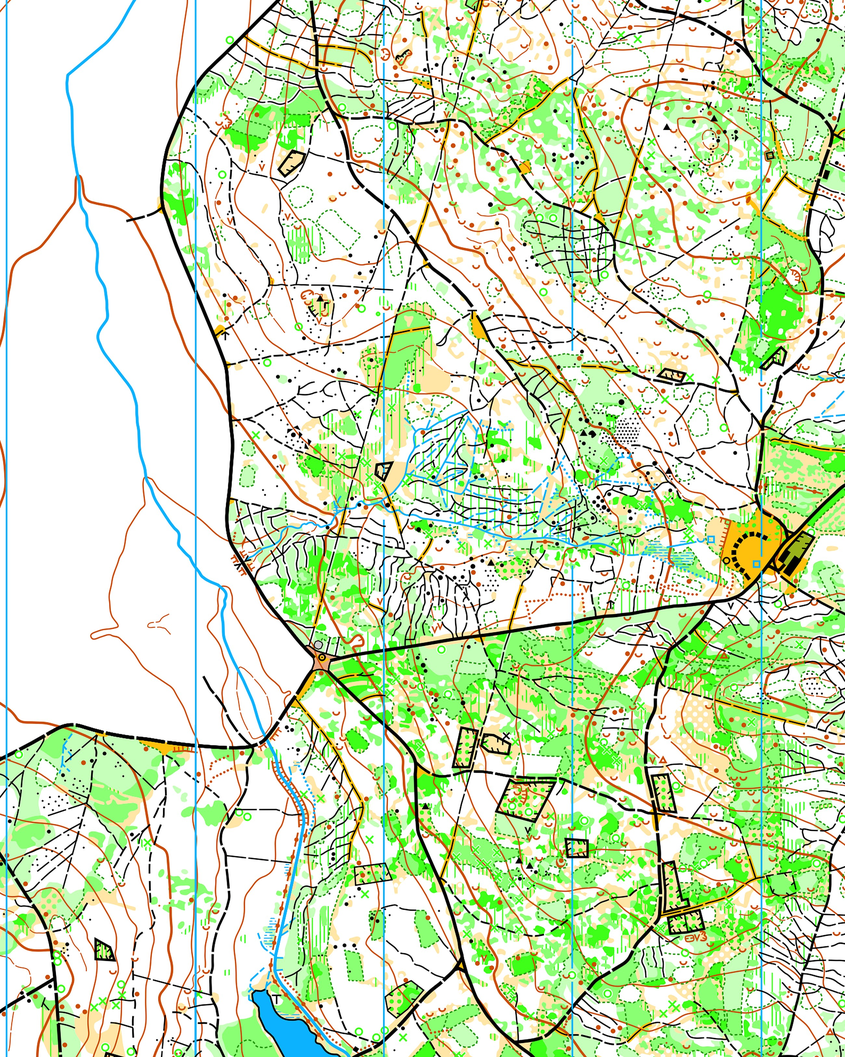
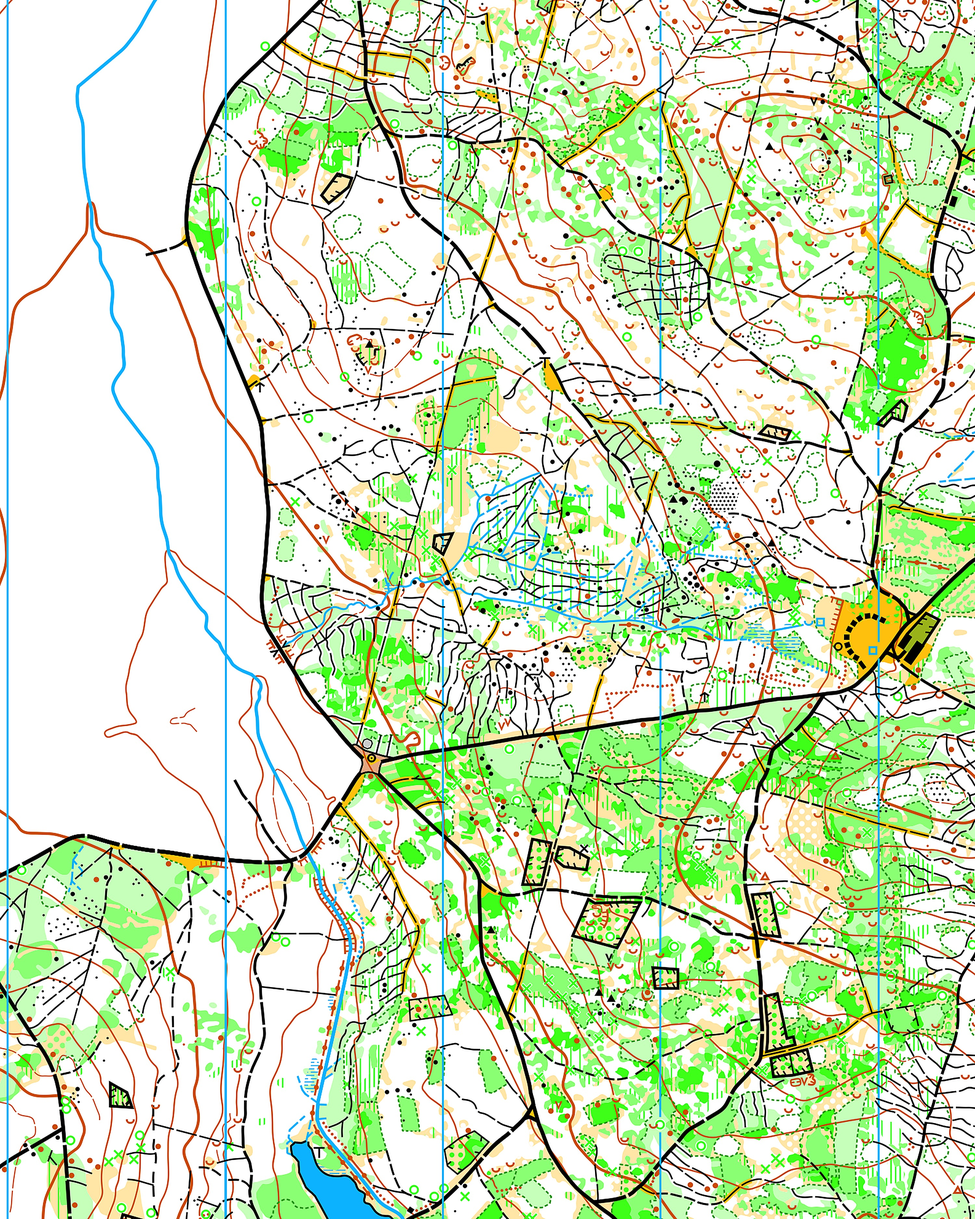
feat: increase map zoom to 700% and enhance thumbnail sharpness

diff --git a/export/app.js b/export/app.js
@@ -2777,7 +2777,8 @@ function renderExploreGrid() {
             driftVars += ` --drift-start-x: ${b.startX}%; --drift-start-y: ${b.startY}%; --drift-mid-x: ${b.midX}%; --drift-mid-y: ${b.midY}%; --drift-end-x: ${b.endX}%; --drift-end-y: ${b.endY}%;`;
         }
         
-        const driftStyle = `style="position: absolute; top: 0; left: 0; width: 500%; height: 500%; ${driftVars}"`;
+        const zoom = (b && b.zoom) ? b.zoom : 700;
+        const driftStyle = `style="position: absolute; top: 0; left: 0; width: ${zoom}%; height: ${zoom}%; ${driftVars}"`;
         
         el.innerHTML = `
             <div class="animated-map-drift" ${driftStyle}>

diff --git a/export/style.css b/export/style.css
@@ -334,8 +334,11 @@ html, body {
 .animated-map-drift img {
   image-rendering: auto;
   image-rendering: -webkit-optimize-contrast;
+  image-rendering: crisp-edges;
+  filter: contrast(1.05) saturate(1.06);
   -webkit-backface-visibility: hidden;
   backface-visibility: hidden;
+  transform: translateZ(0);
 }
 
 @keyframes mapDrift {

diff --git a/14_export_thumbnails.py b/14_export_thumbnails.py
@@ -31,11 +31,13 @@ Image.MAX_IMAGE_PIXELS = None
 
 # Cílový poměr stran 4:5 (šířka:výška, IG portrait)
 TARGET_ASPECT = 4 / 5
-# Velikost výstupního thumbnailu (zvýšena na 2600 pro křišťálovou ostrost i při 500% zoomu na Retina displejích)
-THUMB_WIDTH = 2600
-THUMB_HEIGHT = int(THUMB_WIDTH / TARGET_ASPECT)  # = 3250
-# JPEG kvalita (90 pro vysokou ostrost detailů mapy)
-JPEG_QUALITY = 90
+# Velikost výstupního thumbnailu (zvýšena na 3000 pro maximální ostrost i při vysokém zoomu na Retina displejích)
+THUMB_WIDTH = 3000
+THUMB_HEIGHT = int(THUMB_WIDTH / TARGET_ASPECT)  # = 3750
+# JPEG kvalita (93 pro precizní ostrost linií bez artefaktů)
+JPEG_QUALITY = 93
+# Výchozí zoom kamery na úvodní stránce (700 % = detailní záběr mapy s čitelnými vrstevnicemi a kameny)
+DEFAULT_MAP_ZOOM = 700
 
 # Padding pro vyříznutí mapy kolem postupu (zajišťuje dostatek "masa" pro zoom bez přejetí mimo mapu)
 BBOX_PADDING_RATIO = 0.35  # Velmi těsný ořez pro co největší detail
@@ -119,7 +121,7 @@ def crop_to_aspect(bbox, img_width, img_height, aspect_ratio=TARGET_ASPECT, padd
     return int(max(0, min_col)), int(max(0, min_row)), int(min(img_width, max_col)), int(min(img_height, max_row))
 
 
-def compute_map_drift(cropped_img, norm_route_pts=None):
+def compute_map_drift(cropped_img, norm_route_pts=None, zoom=DEFAULT_MAP_ZOOM):
     """
     Vypočítá optimální trajektorii kamery (startX/Y, midX/Y, endX/Y) pro dlaždici na homepage.
     - Analyzuje bílé / nezmapované okraje mapy a striktně se jim vyhýbá.
@@ -154,9 +156,10 @@ def compute_map_drift(cropped_img, norm_route_pts=None):
     else:
         route_map = detail_map.copy()
         
-    # Velikost zobrazeného výřezu při 500% zoomu (20% šířky i výšky)
-    win_w = 20
-    win_h = 25
+    # Velikost zobrazeného výřezu při zoomu (např. 700% -> viewport je 14.3% šířky i výšky)
+    vp_pct = 100.0 / (zoom / 100.0)
+    win_w = max(4, int(round(W * (vp_pct / 100.0))))
+    win_h = max(4, int(round(H * (vp_pct / 100.0))))
     half_w = win_w // 2
     half_h = win_h // 2
     
@@ -168,11 +171,11 @@ def compute_map_drift(cropped_img, norm_route_pts=None):
             sub_w = is_white[r - half_h : r + half_h + 1, c - half_w : c + half_w + 1]
             w_ratio = np.mean(sub_w)
             white_ratios[r, c] = w_ratio
-            # Striktní podmínka: maximálně 3 % bílého okraje v celém 20%x20% zorném poli
-            if w_ratio <= 0.03:
+            # Striktní podmínka: maximálně 2 % bílého okraje v celém zorném poli
+            if w_ratio <= 0.02:
                 r_val = np.mean(route_map[r - half_h : r + half_h + 1, c - half_w : c + half_w + 1])
                 d_val = np.mean(detail_map[r - half_h : r + half_h + 1, c - half_w : c + half_w + 1])
-                score = (1.0 - w_ratio * 25.0) * (r_val * 3.0 + d_val * 0.5)
+                score = (1.0 - w_ratio * 30.0) * (r_val * 3.0 + d_val * 0.5)
                 scores[r, c] = max(0.001, score)
                 
     if np.max(scores) == 0:
@@ -183,18 +186,18 @@ def compute_map_drift(cropped_img, norm_route_pts=None):
         c2, r2 = c_best, r_best
         cm, rm = c_best, r_best
     else:
-        threshold = np.percentile(scores[scores > 0], 75)
+        threshold = np.percentile(scores[scores > 0], 80)
         top_candidates = np.argwhere(scores >= threshold)
         
-        # Cílová vzdálenost pro jemný, decentní a pomalý drift (~8-10% šířky mapy)
-        target_dist = 10.0
+        # Cílová vzdálenost pro jemný, decentní a pomalý drift (~7-9% šířky mapy)
+        target_dist = 8.5
         best_pair = None
         best_diff = 999.0
         
         for r1_cand, c1_cand in top_candidates[::2]:
             for r2_cand, c2_cand in top_candidates[::2]:
                 d = np.hypot(c2_cand - c1_cand, r2_cand - r1_cand)
-                if 6.0 <= d <= 14.0:
+                if 5.0 <= d <= 12.0:
                     diff = abs(d - target_dist)
                     if diff < best_diff:
                         best_diff = diff
@@ -203,8 +206,8 @@ def compute_map_drift(cropped_img, norm_route_pts=None):
         if best_pair is None:
             max_idx = np.argmax(scores)
             br, bc = np.unravel_index(max_idx, scores.shape)
-            c1, r1 = bc - 4, br - 3
-            c2, r2 = bc + 4, br + 3
+            c1, r1 = bc - 3, br - 3
+            c2, r2 = bc + 3, br + 3
         else:
             (c1, r1), (c2, r2) = best_pair
             
@@ -212,21 +215,24 @@ def compute_map_drift(cropped_img, norm_route_pts=None):
         cm = int(round((c1 + c2) / 2.0 + (r2 - r1) * 0.15))
         rm = int(round((r1 + r2) / 2.0 - (c2 - c1) * 0.15))
         
-        if not (half_h <= rm < H - half_h and half_w <= cm < W - half_w and white_ratios[rm, cm] <= 0.04):
+        if not (half_h <= rm < H - half_h and half_w <= cm < W - half_w and white_ratios[rm, cm] <= 0.03):
             cm = int(round((c1 + c2) / 2.0))
             rm = int(round((r1 + r2) / 2.0))
 
+    half_vp = (vp_pct / 200.0)
+    max_t = -(100.0 - vp_pct)
     def to_css(col, row):
         cx = col / float(W)
         cy = row / float(H)
-        sx = max(-80.0, min(0.0, -(cx - 0.10) * 100.0))
-        sy = max(-80.0, min(0.0, -(cy - 0.10) * 100.0))
+        sx = max(max_t, min(0.0, -(cx - half_vp) * 100.0))
+        sy = max(max_t, min(0.0, -(cy - half_vp) * 100.0))
         return round(float(sx), 1), round(float(sy), 1)
 
     sx, sy = to_css(c1, r1)
     ex, ey = to_css(c2, r2)
     mx, my = to_css(cm, rm)
     return {
+        'zoom': zoom,
         'startX': sx, 'startY': sy,
         'midX': mx, 'midY': my,
         'endX': ex, 'endY': ey
@@ -289,7 +295,7 @@ def generate_thumbnails():
     thumb = cropped.resize((THUMB_WIDTH, THUMB_HEIGHT), Image.Resampling.LANCZOS)
     
     # Doostření pro maximální ostrost a čitelnost mapových prvků
-    thumb = thumb.filter(ImageFilter.UnsharpMask(radius=1.0, percent=65, threshold=2))
+    thumb = thumb.filter(ImageFilter.UnsharpMask(radius=1.3, percent=140, threshold=1))
     
     map_thumb_path = os.path.join(thumbs_dir, "map_homolka.jpg")
     thumb.save(map_thumb_path, "JPEG", quality=JPEG_QUALITY, optimize=True)
@@ -351,7 +357,7 @@ def generate_thumbnails():
         # ---------------------------------------------
         
         thumb = cropped.resize((THUMB_WIDTH, THUMB_HEIGHT), Image.Resampling.LANCZOS)
-        thumb = thumb.filter(ImageFilter.UnsharpMask(radius=1.0, percent=65, threshold=2))
+        thumb = thumb.filter(ImageFilter.UnsharpMask(radius=1.3, percent=140, threshold=1))
         
         thumb_path = os.path.join(thumbs_dir, f"{basename}.jpg")
         thumb.save(thumb_path, "JPEG", quality=JPEG_QUALITY, optimize=True)
